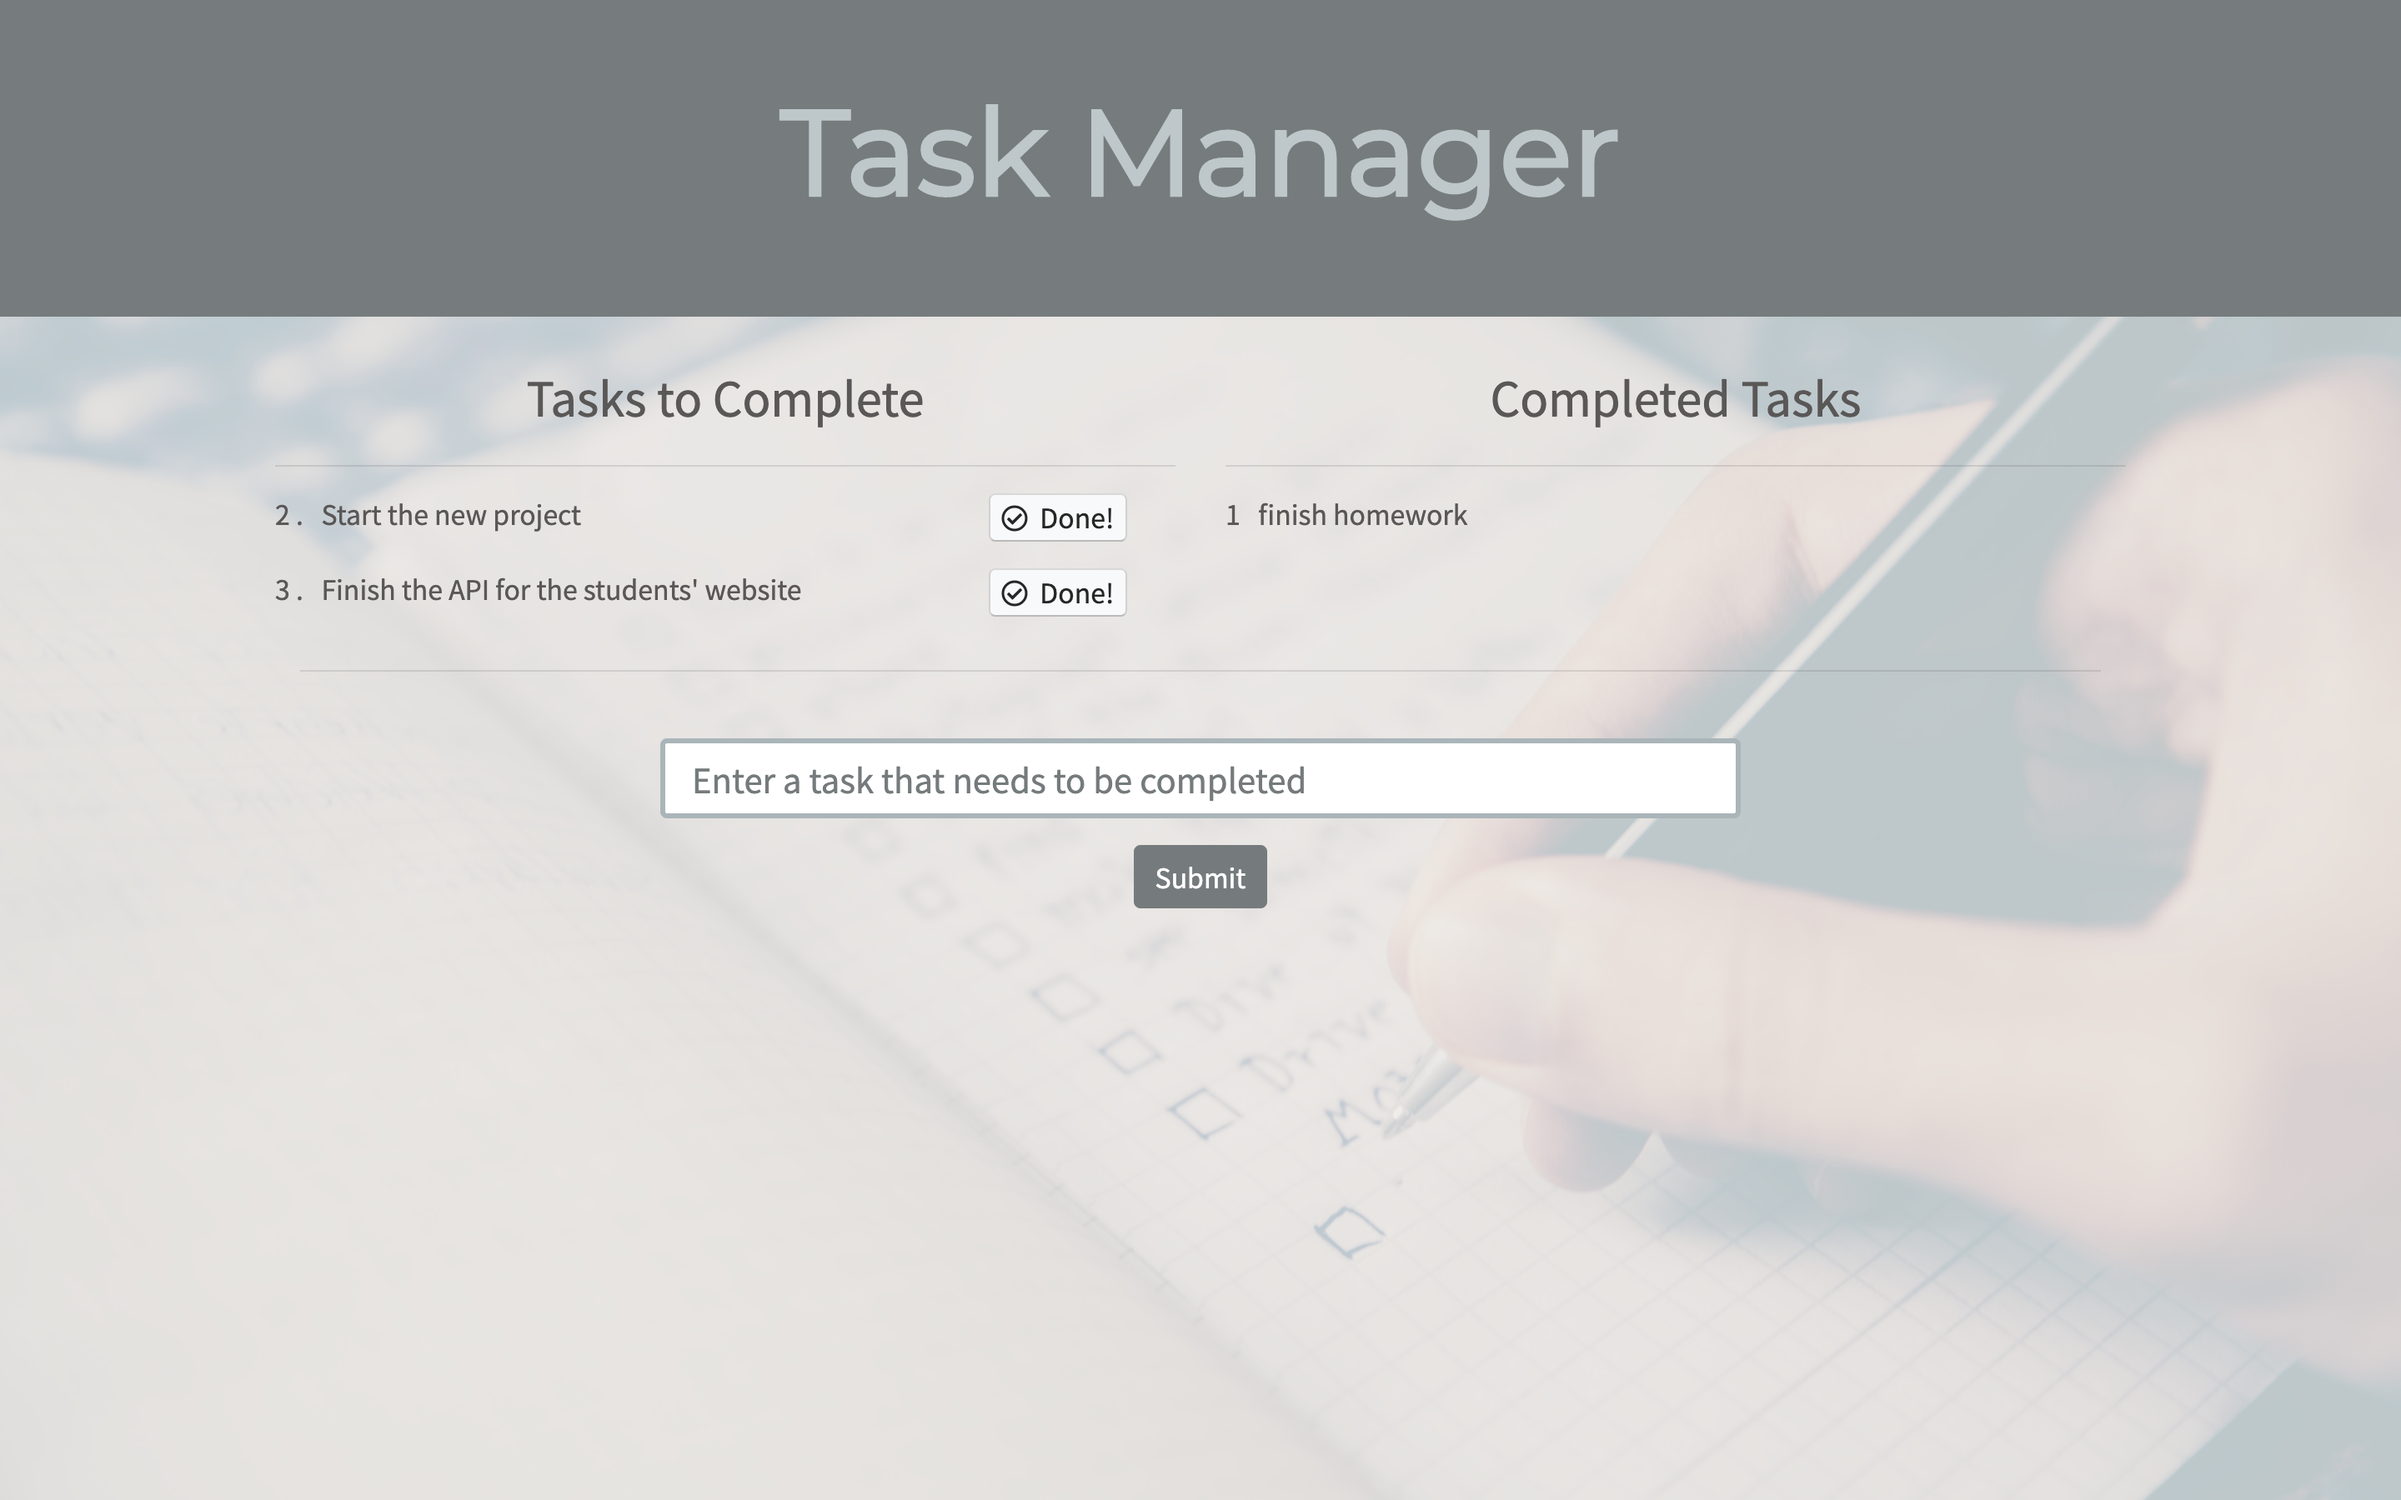
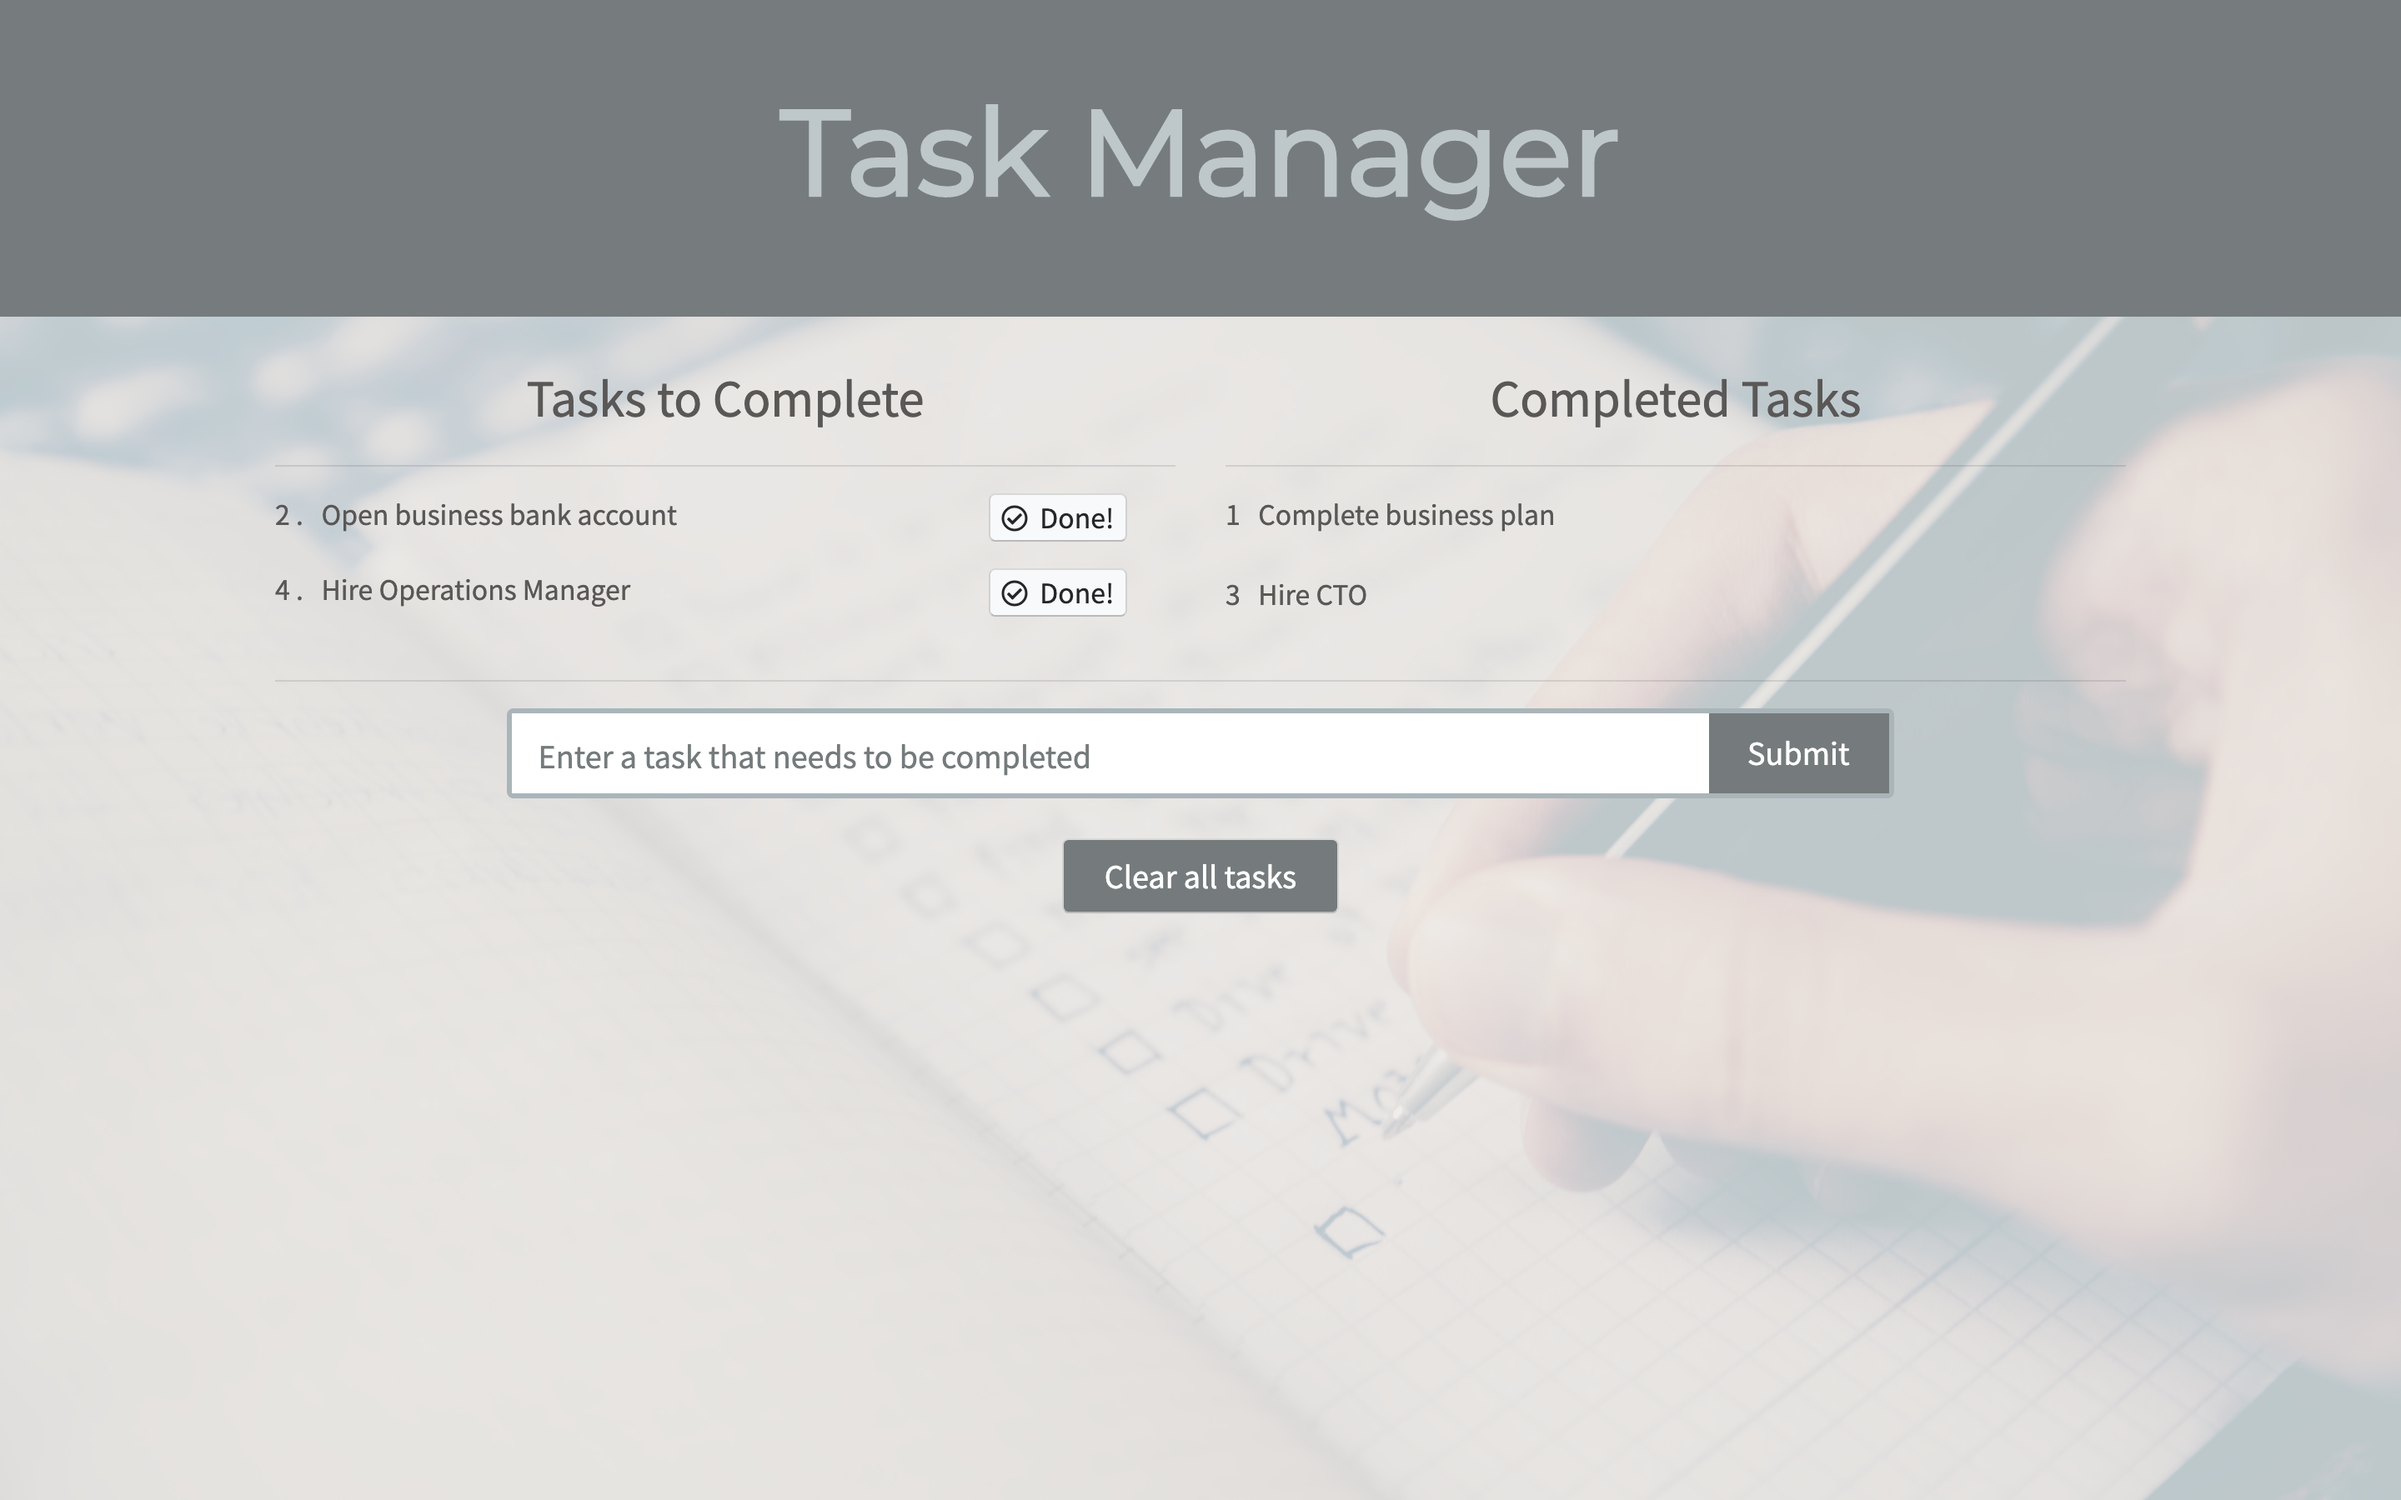
clear button added and ReadMe updated

Changed region(s): [[0.1875, 0.4667, 0.8125, 0.6222], [0.125, 0.3422, 0.3438, 0.4044], [0.5312, 0.3422, 0.625, 0.4044]]

diff --git a/public/template.html b/public/template.html
@@ -1,0 +1,111 @@
+<!DOCTYPE html>
+<html lang="en">
+
+<head>
+    <meta charset="UTF-8">
+    <meta name="viewport" content="width=device-width, initial-scale=1.0">
+    <meta http-equiv="X-UA-Compatible" content="ie=edge">
+    <title>Task Manager</title>
+    <!-- Bootstrap -->
+    <link href="https://stackpath.bootstrapcdn.com/bootstrap/4.4.1/css/bootstrap.min.css" rel="stylesheet"
+        integrity="sha384-Vkoo8x4CGsO3+Hhxv8T/Q5PaXtkKtu6ug5TOeNV6gBiFeWPGFN9MuhOf23Q9Ifjh" crossorigin="anonymous">
+    <script src="https://stackpath.bootstrapcdn.com/bootstrap/4.4.1/js/bootstrap.min.js"
+        integrity="sha384-wfSDF2E50Y2D1uUdj0O3uMBJnjuUD4Ih7YwaYd1iqfktj0Uod8GCExl3Og8ifwB6"
+        crossorigin="anonymous"></script>
+    <script src="https://stackpath.bootstrapcdn.com/bootstrap/4.4.1/js/bootstrap.bundle.min.js"
+        integrity="sha384-6khuMg9gaYr5AxOqhkVIODVIvm9ynTT5J4V1cfthmT+emCG6yVmEZsRHdxlotUnm"
+        crossorigin="anonymous"></script>
+    <!-- Font Awesome -->
+    <script src="https://kit.fontawesome.com/55233fae23.js" crossorigin="anonymous"></script>
+    <!-- Google Fonts -->
+    <link href="https://fonts.googleapis.com/css?family=Lato|Montserrat|Noto+Sans+JP&display=swap" rel="stylesheet">
+
+    <link rel="stylesheet" type="text/css" href="assets/css/style.css">
+
+</head>
+
+
+<body>
+    <div class="jumbotron sticky-top text-center">
+        <h1 class="display-3 font-weight-bold">Task Manager</h1>
+    </div>
+
+    <div class="container">
+        <div class="row">
+            <div class="col-6">
+                <h3 class="text-center mb-4">Items to Complete</h3>
+                <hr>
+
+                <div class="row mb-3">
+                    <div class="col-9">
+                        <p class="d-inline">#</p>
+                        <span>&nbsp;</span>
+                        <p class="d-inline">Item to do will go here</p>
+                    </div>
+                    <div class="col-3">
+                        <button type="submit" class="rounded bg-light"><i
+                                class="far fa-check-circle"></i></i><span>&nbsp;</span> Done!</button>
+                    </div>
+                </div>
+
+                <div class="row mb-3">
+                    <div class="col-9">
+                        <p class="d-inline">#</p>
+                        <span>&nbsp;</span>
+                        <p class="d-inline">Task that needs to be done</p>
+                    </div>
+                    <div class="col-3">
+                        <button type="submit" class="rounded bg-light"><i
+                                class="far fa-check-circle"></i></i><span>&nbsp;</span> Done!</button>
+                    </div>
+                </div>
+
+
+            </div>
+
+            <div class="col-6">
+                <h3 class="text-center mb-4">Tasks Completed </h3>
+                <hr>
+
+                <div class="row mb-4">
+                    <div class="col-12">
+                        <p class="d-inline">#</p>
+                        <span>&nbsp;</span>
+                        <p class="d-inline">Task that has been done will go here</p>
+                    </div>
+                </div>
+
+                <div class="row mb-4">
+                    <div class="col-12">
+                        <p class="d-inline">#</p>
+                        <span>&nbsp;</span>
+                        <p class="d-inline">Completed item will go here</p>
+                    </div>
+                </div>
+
+            </div>
+        </div>
+
+        <footer class="footer">
+            <hr>
+            <form id="createTodo">
+                <div class="input-group mx-auto border rounded">
+                    <input type="text" class="form-control form-control-lg border-0 rounded-0" name="todo"
+                        placeholder="Enter a task that needs to be completed"></input>
+                    <div class="input-group-append">
+                        <button type="submit" id="submit" class="px-4 border-0">Submit</button>
+                    </div>
+                </div>
+            </form>
+            <div class="row">
+                <form id="delete" class="mx-auto mt-4">
+                    <button type="submit" id="deleteAll" class="px-4 py-2 rounded">Clear all tasks</button>
+                </form>
+            </div>
+        </footer>
+
+    </div>
+
+</body>
+
+</html>

diff --git a/server.js b/server.js
@@ -17,25 +17,25 @@ app.set("view engine", "handlebars");
 
 
 
-if (process.env.JAWSDB_URL) {
-    var connection = mysql.createConnection(process.env.JAWSDB_URL);
-}
-else {
-    var connection = mysql.createConnection({
-        host: "localhost",
-        port: 3306,
-        user: process.env.user,
-        password: process.env.pw,
-        database: "todolistDB"
-    });
-}
+// if (process.env.JAWSDB_URL) {
+//     var connection = mysql.createConnection(process.env.JAWSDB_URL);
+// }
+// else {
+var connection = mysql.createConnection({
+    host: "localhost",
+    port: 3306,
+    user: process.env.user,
+    password: process.env.pw,
+    database: "todolistDB"
+});
+// }
 
-connection.query("SHOW TABLES", function(err,results){
-    if (results.length === 0) {
-      connection.query("CREATE TABLE todos (id INT(10) AUTO_INCREMENT NOT NULL, task VARCHAR(250) NOT NULL, done BOOLEAN NOT NULL, PRIMARY KEY (id));")
-    };
-  })
-  
+// connection.query("SHOW TABLES", function(err,results){
+//     if (results.length === 0) {
+//       connection.query("CREATE TABLE todos (id INT(10) AUTO_INCREMENT NOT NULL, task VARCHAR(250) NOT NULL, done BOOLEAN NOT NULL, PRIMARY KEY (id));")
+//     };
+//   })
+
 
 connection.connect(function (err) {
     if (err) {
@@ -112,6 +112,18 @@ app.put("/api/tasks/:id", function (req, res) {
             return res.status(404).end();
         }
         res.status(200).end();
+    })
+})
+
+// clear all tasks
+app.delete("/api/tasks", function (req, res) {
+    connection.query("DELETE FROM todos", function (err, response) {
+        if (err) throw err;
+        // reset id to 1     
+        connection.query("TRUNCATE TABLE todos;", function(err, response) {
+            if (err) throw err;
+            res.status(200).end();
+        })
     })
 })
 

diff --git a/public/assets/js/script.js b/public/assets/js/script.js
@@ -16,6 +16,7 @@ submitBtn.addEventListener("submit", function (event) {
     )
 })
 
+
 // determine whether header is off or on based on content of task array
 const header = () => {
     $.ajax("/api/headers", {
@@ -40,10 +41,10 @@ const header = () => {
 header();
 
 
+// Done! button updates status of tasks
 let done = document.querySelectorAll(".doneTodo");
-
 for (i = 0; i < done.length; i++) {
-    // loop through all the Done! buttons and create an event listener
+    // loop through all Done! buttons and create an event listener
     done[i].addEventListener("click", function (event) {
         event.preventDefault();
         // get the id of the button that triggered the click
@@ -58,3 +59,17 @@ for (i = 0; i < done.length; i++) {
         )
     })
 }
+
+
+const deleteBtn = document.querySelector("#delete");
+deleteBtn.addEventListener("submit", function(event) {
+    event.preventDefault();
+
+    $.ajax("/api/tasks", {
+        type: "DELETE"
+    }).then(
+        function() {
+            location.reload();
+        }
+    )
+});

diff --git a/public/assets/css/style.css b/public/assets/css/style.css
@@ -26,9 +26,11 @@ body::after {
     z-index: -1;
 }
 
-.form-group {
-    width: 60%;
+
+.input-group {
+    width: 75%;
 }
+
 
 .border {
     border-width: medium !important;
@@ -37,14 +39,23 @@ body::after {
 
 ::placeholder {
     color: #757b7c !important;
+    font-size: 18px;
 }
 
 #doneTodo {
     color: #5a5757;
 }
 
-#submit {
-    border-color: #757b7c !important;
+#submit, #deleteAll {
     background-color: #757b7c !important;
     color: white;
+    font-size: 18px;
+}
+
+#submit:hover {
+    background-color: #547454 !important;
+}
+
+#deleteAll:hover {
+    background-color: #c74848 !important;
 }

diff --git a/README.md b/README.md
@@ -5,6 +5,6 @@
 [![npm version](https://badge.fury.io/js/mysql.svg)](https://badge.fury.io/js/mysql)
 ![language badge](https://img.shields.io/github/languages/top/inorrmann/Node-handlebars)
 
-This task managers allows users to enter todos and mark them as completed when done. All tasks will be kept in the server and displayed as either completed or not.
+This task managers allows users to enter todos and mark them as completed when done. All tasks will be kept in the server and displayed as either completed or not until user clears all tasks.
 
 ![screenshot](./screenshot.png)
